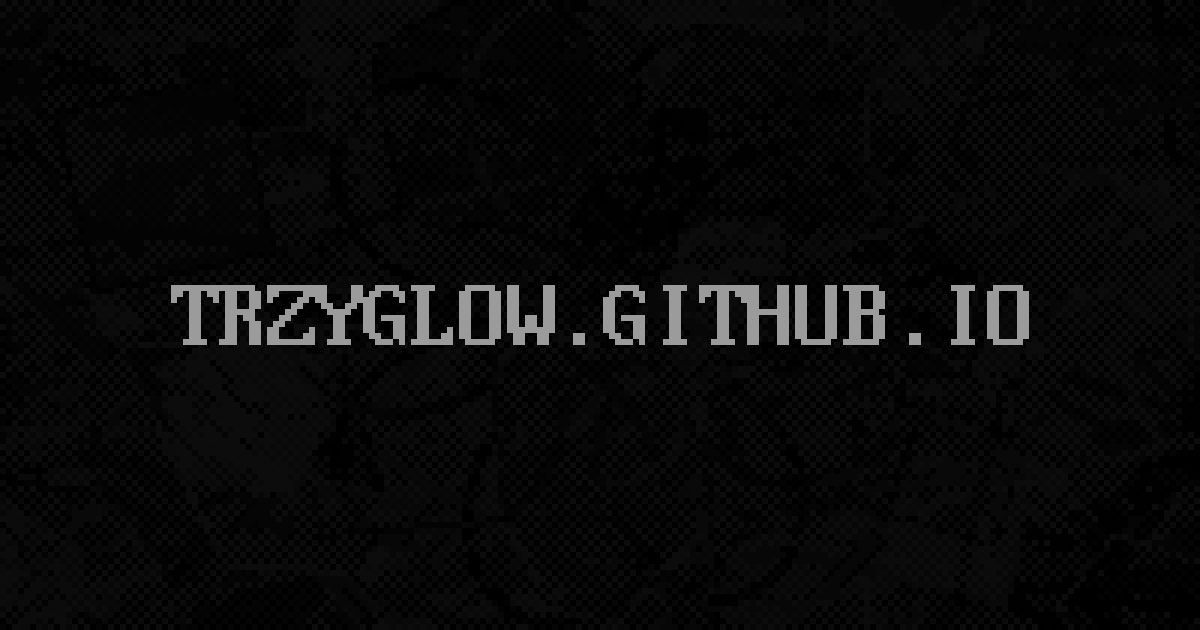
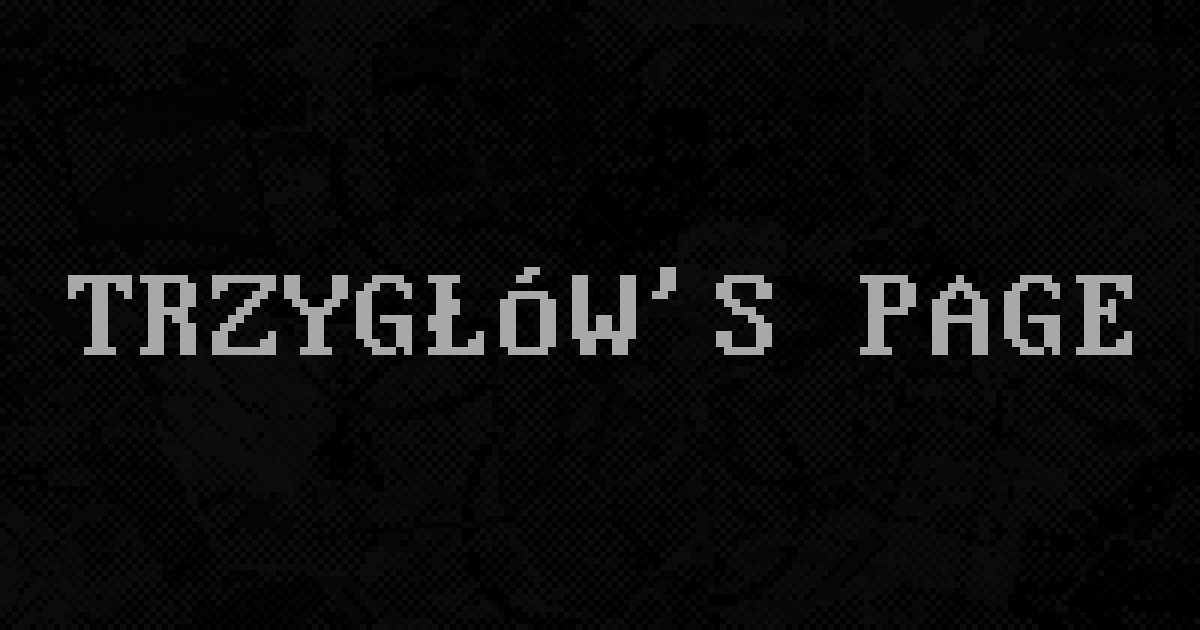
update

Changed region(s): [[0.0308, 0.4222, 0.9558, 0.573]]

diff --git a/neat.html b/neat.html
@@ -1,7 +1,7 @@
 <!DOCTYPE html>
 <html>
 <head>
-	<title>neat websites - page 1</title>
+	<title>neat websites | page 1 - trzygłów's page</title>
 	<meta name="robots" content="noindex,nofollow" />
 	<meta property="og:image" content="./data/socialprev.png">
 	<meta property="og:image:type" content="image/png">

diff --git a/neat2.html b/neat2.html
@@ -1,7 +1,7 @@
 <!DOCTYPE html>
 <html>
 <head>
-	<title>neat websites - page 2</title>
+	<title>neat websites | page 2 - trzygłów's page</title>
 	<meta name="robots" content="noindex,nofollow" />
 	<meta property="og:image" content="./data/socialprev.png">
 	<meta property="og:image:type" content="image/png">

diff --git a/neat3.html b/neat3.html
@@ -1,7 +1,7 @@
 <!DOCTYPE html>
 <html>
 <head>
-	<title>neat websites - page 3</title>
+	<title>neat websites | page 3 - trzygłów's page</title>
 	<meta name="robots" content="noindex,nofollow" />
 	<meta property="og:image" content="./data/socialprev.png">
 	<meta property="og:image:type" content="image/png">
